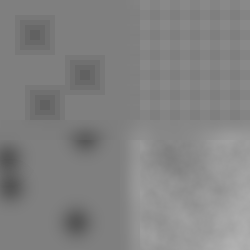
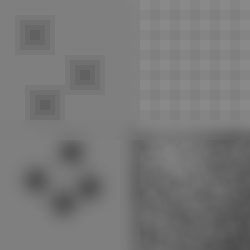
fixed termination BUG, adjusted the environment for easier reset

diff --git a/envs/robots/unitree_env.py b/envs/robots/unitree_env.py
@@ -67,17 +67,18 @@ class UnitreeEnv(MjxEnv):
         self.cmd_yaw = cfg.manual_control.cmd_ang
 
         self.soft_limits = soft_limits
-        self.single_obs_size = 48 # defined in _get_obs
-        self.privileged_obs_size = 59#self.single_obs_size
-        
+        self.single_obs_size = cfg.single_obs_size # defined in _get_obs
+        self.privileged_obs_size = cfg.single_obs_size_priv
+
+        self.stiff_range = cfg.stiff_range        
         if cfg.control_mode == "VIC_1": # for hip,thigh and knee
             self.action_shape = self.action_size + 3
             self.single_obs_size = self.single_obs_size + 3
-            self.privileged_obs_size = self.single_obs_size
+            self.privileged_obs_size = self.privileged_obs_size +3
         elif cfg.control_mode == "VIC_2": # for every leg
             self.action_shape = self.action_size + 4
             self.single_obs_size = self.single_obs_size + 4
-            self.privileged_obs_size = self.single_obs_size
+            self.privileged_obs_size = self.privileged_obs_size + 4 
         else:
             self.action_shape = self.action_size
         # Randomization ranges:
@@ -267,7 +268,7 @@ class UnitreeEnv(MjxEnv):
     def get_terminate_contacts(self, data)->jax.Array: 
         # Number of collisions and arrays are set statically due to brax troubles
         num_collisions = 7
-        expected_total_cont=23
+        expected_total_cont=23 + 3*23*self.terminate_map
         geom_temp = jp.zeros((expected_total_cont,2))
         conn_indices = jp.zeros((num_collisions,1), dtype=int)
         geom_temp = geom_temp.at[0:expected_total_cont,0:2].set(data.contact.geom[0:expected_total_cont,0:2])
@@ -405,6 +406,9 @@ class UnitreeEnv(MjxEnv):
         """
         dof_pos = data.qpos[7:]
         dof_vel = data.qvel[6:]
+
+        m = (self.stiff_range[0] +self.stiff_range[1])/2
+        r= self.stiff_range[1]-self.stiff_range[0]
         
         #action = jp.clip(action, a_min=-1.0, a_max=1.0)
 
@@ -420,15 +424,17 @@ class UnitreeEnv(MjxEnv):
             target_dof_pos = jp.clip(self.action_scale * action[:12] + self.default_pos[7:],
                                     a_min=self.lower_limits, a_max=self.upper_limits)
             err = target_dof_pos - dof_pos
-            p_gains = jp.clip(self.p_gains + 10*jp.tile(action[12:],4), a_min=10.0, a_max=100.0)
-            d_gains = 0.2*jp.sqrt(p_gains) # setting it after critical damping law
+            action_stiff = jp.tile(action[12:],4)
+            p_gains = jp.clip(self.p_gains*(m+action_stiff*r), a_min=10.0, a_max=100.0)
+            d_gains = 1.0 #0.2*jp.sqrt(p_gains) # setting it after critical damping law
             torques = p_gains * err - d_gains * dof_vel
         elif self.control_mode == "VIC_2":
             target_dof_pos = jp.clip(self.action_scale * action[:12] + self.default_pos[7:],
                                     a_min=self.lower_limits, a_max=self.upper_limits)
             err = target_dof_pos - dof_pos
-            p_gains = jp.clip(self.p_gains + 10*jp.repeat(action[12:],3), a_min=10.0, a_max=100.0)
-            d_gains = 0.2*jp.sqrt(p_gains) # setting it after critical damping law
+            action_stiff = jp.tile(action[12:],3)
+            p_gains = jp.clip(self.p_gains*(m+action_stiff*r), a_min=10.0, a_max=100.0)
+            d_gains = 1.0 #0.2*jp.sqrt(p_gains) # setting it after critical damping law
             torques = p_gains * err - d_gains * dof_vel
         else:
             raise RuntimeError("control model: P|T")
@@ -692,8 +698,8 @@ class UnitreeEnv(MjxEnv):
 
         privileged_obs = jp.concatenate([
             # Privilege'd
-            state_info['kp_factor'],
-            state_info['kd_factor'],
+            # state_info['kp_factor'],
+            # state_info['kd_factor'],
             state_info['motor_strength'],
             jp.array([self.sys.geom_friction[0, 0]]),
             jp.array([self.sys.body_mass[1]]),

diff --git a/utils/hm_gen.py b/utils/hm_gen.py
@@ -40,7 +40,7 @@ class HeightMapGenerator:
         # Normalize the result to be between 0 and 255
         height_map = (height_map - height_map.min()) / (height_map.max() - height_map.min()) * maximum
         height_map = height_map.astype(np.uint8)
-        self.height_map[start_x:end_x, start_y:end_y] += height_map[start_x:end_x, start_y:end_y]
+        self.height_map[start_x:end_x, start_y:end_y] -= height_map[start_x:end_x, start_y:end_y]
         return height_map
     
     def generate_gaussian_hills(self, num_hills, hill_height=255, hill_radius=50, start_x=0, start_y=0, end_x=150, end_y=150):
